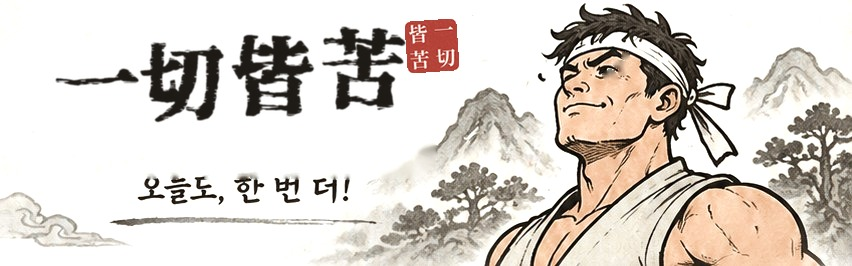
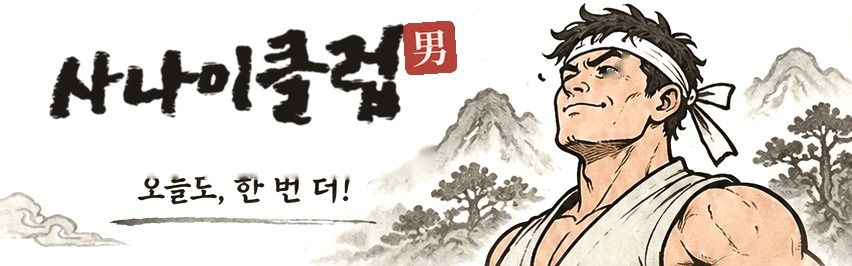
v1.61: rename app to 사나이클럽; hero title redrawn in brush hangul with 男 seal
Claude-Session: https://claude.ai/code/session_01AcRvU6qNVaseE4zLZxW5cY

Changed region(s): [[0.061, 0.0602, 0.5493, 0.4812]]

diff --git a/app/src/main/assets/index.html b/app/src/main/assets/index.html
@@ -1,5 +1,5 @@
 <!-- BulkNote 1.24: completed set weights are fixed -->
-<title>일체개고</title>
+<title>사나이클럽</title>
 <meta name="claude:viewport-fit-sides" content="cover">
 <link rel="stylesheet" href="https://fonts.googleapis.com/css2?family=Black+Han+Sans&family=Gugi&family=Nanum+Myeongjo:wght@400;700;800&family=Song+Myung&family=Oswald:wght@500;600;700&family=IBM+Plex+Sans+KR:wght@400;500;600;700&display=swap">
 <style>
@@ -600,7 +600,7 @@ body.typing{padding-bottom:46vh}
 
 <div class="app">
   <svg width="0" height="0" style="position:absolute" aria-hidden="true" focusable="false"><defs><filter id="inkRough" x="-20%" y="-20%" width="140%" height="140%"><feTurbulence type="fractalNoise" baseFrequency="0.9" numOctaves="2" seed="7" result="n"/><feDisplacementMap in="SourceGraphic" in2="n" scale="1.6" xChannelSelector="R" yChannelSelector="G"/></filter></defs></svg>
-  <header class="hero" role="img" aria-label="일체개고 · 오늘도, 한 번 더!"><span class="status" id="status"></span></header>
+  <header class="hero" role="img" aria-label="사나이클럽 · 오늘도, 한 번 더!"><span class="status" id="status"></span></header>
   <div class="stick">
     <div class="datebar">
       <button type="button" class="ib" id="prevDay" aria-label="전날">‹</button>
@@ -2406,7 +2406,7 @@ body.typing{padding-bottom:46vh}
   };
 
   var AI_SYSTEM = [
-    '너는 \'일체개고\' 앱의 개인 전담 텍스트 PT 코치다.',
+    '너는 \'사나이클럽\' 앱의 개인 전담 텍스트 PT 코치다.',
     '말투는 조선시대 머슴이 주인에게 아뢰듯 하오체(~하오, ~이오, ~하시오, ~했소)로 일관하되, 수치와 근거는 정확하고 현대적인 표현으로 말한다. 어려운 한자어와 과장된 사극 대사는 피한다.',
     '규칙:',
     '1. 도구로 조회한 기록(사실)과 코치의 해석·권장을 구분해 말한다. 예: "기록상 …이오" / "코치 생각으로는 …하시오".',
@@ -3502,7 +3502,7 @@ body.typing{padding-bottom:46vh}
     });
     totalVolume = Object.keys(exerciseMap).reduce(function (sum, k) { return sum + exerciseMap[k].volumeKg; }, 0);
     var report = {
-      app: '일체개고', exportVersion: 1, exportedAt: new Date().toISOString(),
+      app: '사나이클럽', exportVersion: 1, exportedAt: new Date().toISOString(),
       period: { type: period, startDate: start, endDate: end, selectedDate: selDate },
       summary: {
         recordedDays: days.length, workoutDays: workoutDays, totalCompletedSets: totalSets,
@@ -3516,7 +3516,7 @@ body.typing{padding-bottom:46vh}
       note: '운동량은 중량(kg) x 반복횟수의 합이며 체중운동·시간기반 운동은 포함되지 않을 수 있소. 기록되지 않은 값은 추정하지 마시오.'
     };
     var json = JSON.stringify(report, null, 2);
-    var fileName = '일체개고_' + period + '_' + start + '_' + end + '.json';
+    var fileName = '사나이클럽_' + period + '_' + start + '_' + end + '.json';
     var msg = $('#exportMsg');
     try {
       if (window.AndroidBridge && typeof window.AndroidBridge.saveTextFile === 'function') {
